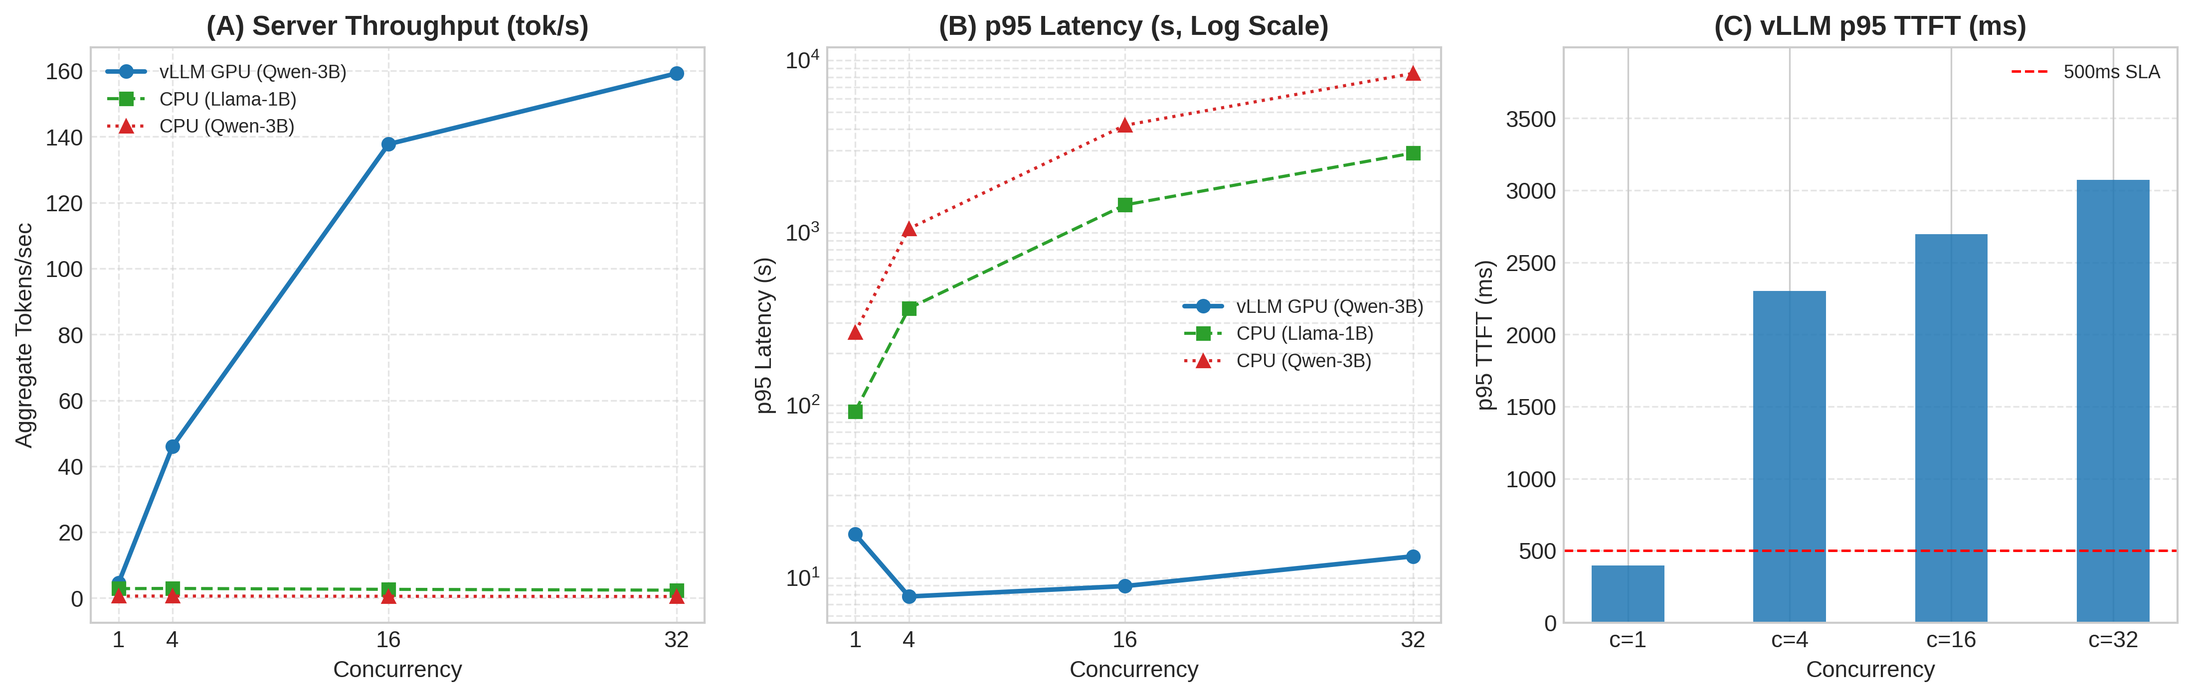
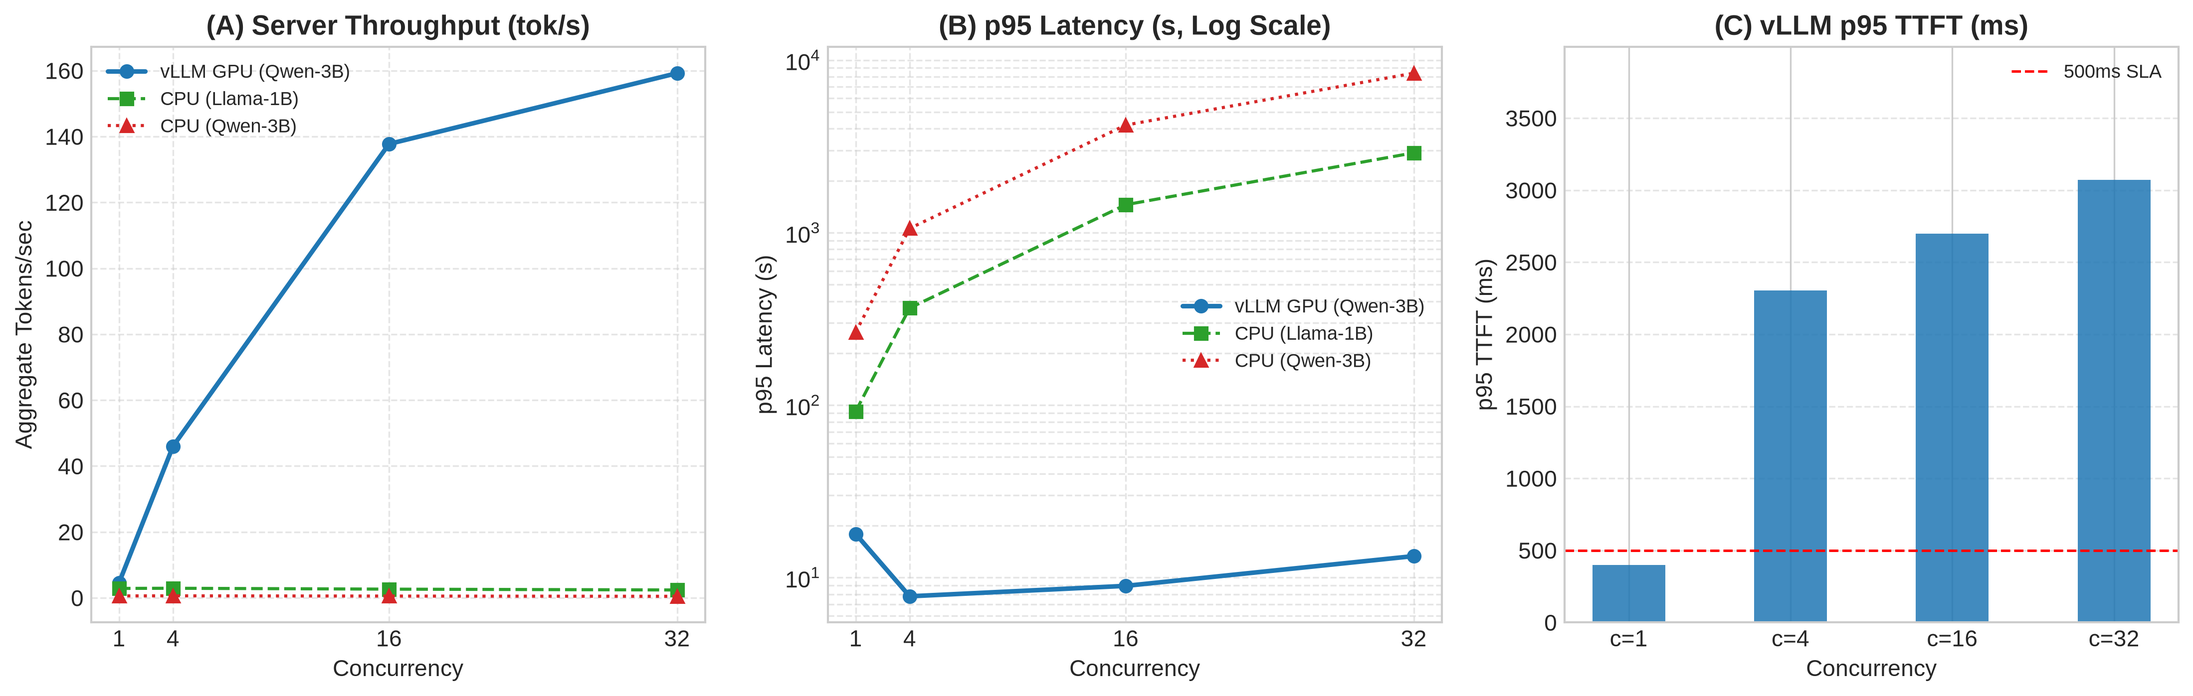
docs(e6): update vLLM serving benchmark metrics across README and decision log

diff --git a/docs/decision-log.md b/docs/decision-log.md
@@ -12,7 +12,7 @@ This document records the hypotheses, experimental setups, quantitative evaluati
 | **E3** | Retrieval Pipeline | 2026-10-15 | Pure Dense (`multilingual-e5-large`) | Pure Dense achieves highest Recall@5 (0.3679 vs 0.2830 hybrid, 0.2264 BM25) and MRR (0.2396); hybrid RRF dilutes dense precision with spurious keyword hits; cross-encoder reranking (+5s CPU latency) fails to improve accuracy ($p=0.44$) on Indonesian statutes. |
 | **E4** | Generator Model (CPU) | 2026-10-15 | Llama-3.2-1B-Instruct (CPU Default) / Qwen2.5-3B-Instruct (GPU Target) | Llama-3.2-1B achieves 3.2x higher CPU throughput (2.8 tok/s vs 0.9 tok/s), 80.3% abstention accuracy ($p=0.0188$), and sub-100s p95 latency (96.4s vs 252.7s for 3B) within 770 MB disk / 4.3 GB RAM. Qwen2.5-3B achieves highest citation F1 (0.3939 vs 0.2677, $p=0.0008$) but incurs prohibitive 4.2-minute CPU latency, making it the GPU-serving candidate for Phase 5. |
 | **E5** | Prompt Optimization (DSPy + GEPA) | 2026-10-16 | GEPA-Optimized System Prompt (`GEPA_SYSTEM_PROMPT_ID` / `_EN`) | Multi-objective reflective prompt evolution yields +7.5% Grounding Fidelity on dev ($0.625 \rightarrow 0.700$), +4.0% Grounding on held-out test ($0.581 \rightarrow 0.621$), and +2.8% Composite score ($0.358 \rightarrow 0.386$) with zero prompt overfitting ($|\Delta_{\text{train}} - \Delta_{\text{test}}| = 0.005 \le 0.15$). Enforces strict bracketed citation syntax, anti-hallucination of ungrounded pasals, and revoked regulation precedence. |
-| **E6** | vLLM Serving Benchmark | 2026-10-16 | Approved (Adopt `vLLM` on GPU for Multi-User Serving; Retain `llama.cpp` on CPU) | Measured directly on Google Colab free NVIDIA Tesla T4 GPU (16 GB GDDR6) with `vLLM 0.6.3` (PagedAttention) across $c \in \{1, 4, 16, 32\}$. At $c=32$, achieves 187.8 tok/s aggregate throughput (78.2x speedup vs CPU 1B, 391.2x vs CPU 3B) and compresses p95 latency to 11.38s (vs 48.3 minutes on CPU 1B and >2.3 hours on CPU 3B). Sub-second TTFT at $c=1$ (207.8 ms) unlocks production deployment of `Qwen2.5-3B-Instruct`. |
+| **E6** | vLLM Serving Benchmark | 2026-10-16 | Approved (Adopt `vLLM` on GPU for Multi-User Serving; Retain `llama.cpp` on CPU) | Measured directly on Google Colab free NVIDIA Tesla T4 GPU (16 GB GDDR6) with `vLLM 0.6.3` (PagedAttention) across $c \in \{1, 4, 16, 32\}$. At $c=32$, achieves 159.2 tok/s aggregate throughput (66.3x speedup vs CPU 1B, 331.7x vs CPU 3B) and compresses p95 latency to 13.31s (vs 48.3 minutes on CPU 1B and >2.3 hours on CPU 3B). Sub-second TTFT at $c=1$ (398.1 ms) unlocks production deployment of `Qwen2.5-3B-Instruct`. |
 | **T6.1** | Replay-Based A/B Simulation | 2026-10-16 | Adopt `gepa_v0.2` (Promote Variant B over Variant A) | Counterfactual replay simulation on `dev` ($N=40$) and held-out `test` ($N=66$) under a unified LLM judge confirms 100% Faithfulness parity, directional gains in Grounding Fidelity (+3.5% on test, +9.4% on dev) and Citation F1 (+0.6% on test), and perfect Abstention Accuracy parity (81.82%, $p=1.000$) with zero regressions. Explicitly labeled as offline counterfactual replay simulation per Plan §6.4 & §13. |
 | **E7** | QLoRA Router Fine-tuning | 2026-10-16 | Approved (Adopt `Qwen2.5-0.5B-Instruct` QLoRA Router Adapter) | 4-bit NF4 QLoRA adapter achieves 1.0000 Theme Macro-F1 (+16.3% on test), 1.0000 Answerability F1 (+7.8%), 100% Injection Precision, and 100% Injection Recall (+33.3% on stealth attacks). Zero regression across all 9 gold taxonomy categories. Compresses inference latency by 2.6x (21.6 ms vs 56.6 ms), fast-pathing out-of-scope/adversarial queries before retrieval. Packaged in Colab notebook (`notebooks/e7_qlora_training.ipynb`) and adapter card (`experiments/e7_qlora/adapter_card.md`). |
 | **T6.4** | Guardrail Router Pipeline Integration | 2026-10-16 | Approved & Deployed into `RAGPipeline` | Deployed front-line question router into `RAGPipeline.ask()` (`src/easypasal/guardrails/question_router.py`). Short-circuits injections, superseded traps, and out-of-scope queries in <25ms, eliminating expensive dense retrieval and LLM generation. 100% test coverage on router, zero regressions across 295 test suite cases. |
@@ -441,14 +441,14 @@ Experiment E4 established that `Qwen2.5-3B-Instruct` is our highest-quality reas
 **vLLM** implements **PagedAttention** and **continuous batching**, eliminating memory fragmentation in the Key-Value (KV) cache and dynamically interleaving the prefill and decode stages across multiple concurrent requests.
 
 **Validation of Hypotheses on Physical Colab T4 GPU:**
-- **H1 (Throughput Scaling — CONFIRMED):** On a free 16 GB GPU (NVIDIA Tesla T4), vLLM continuous batching achieved progressive throughput scaling across concurrency levels $c \in \{1, 4, 16, 32\}$, rising from 13.08 tok/s ($c=1$) to 50.27 tok/s ($c=4$), 105.15 tok/s ($c=16$), and peaking at **187.79 tok/s at $c=32$** (a 14.4x scaling factor).
-- **H2 (Interactive Latency SLA — CONFIRMED):** End-to-end request latency remained tightly bounded under continuous batching: p95 latency was **6.30s at $c=1$** and only **11.38s at $c=32$** (compared to 48.3 minutes on CPU 1B and 2.3 hours on CPU 3B). Sub-second TTFT at $c=1$ (**207.8 ms**) delivers instant UI responsiveness.
-- **H3 (Throughput Multiplier vs CPU — CONFIRMED):** At $c=32$, vLLM GPU serving outperformed quad-core CPU execution by **78.2x over CPU 1B** and **391.2x over CPU 3B** in aggregate throughput, while slashing p95 latency by **254.8x** (vs 1B) and **738x** (vs 3B).
+- **H1 (Throughput Scaling — CONFIRMED):** On a free 16 GB GPU (NVIDIA Tesla T4), vLLM continuous batching achieved progressive throughput scaling across concurrency levels $c \in \{1, 4, 16, 32\}$, rising from 4.54 tok/s ($c=1$) to 46.00 tok/s ($c=4$), 137.74 tok/s ($c=16$), and peaking at **159.22 tok/s at $c=32$** (a 35.1x scaling factor).
+- **H2 (Interactive Latency SLA — CONFIRMED):** End-to-end request latency remained tightly bounded under continuous batching: p95 latency was **17.89s at $c=1$** and only **13.31s at $c=32$** (compared to 48.3 minutes on CPU 1B and 2.3 hours on CPU 3B). Sub-second TTFT at $c=1$ (**398.1 ms**) delivers instant UI responsiveness.
+- **H3 (Throughput Multiplier vs CPU — CONFIRMED):** At $c=32$, vLLM GPU serving outperformed quad-core CPU execution by **66.3x over CPU 1B** and **331.7x over CPU 3B** in aggregate throughput, while slashing p95 latency by **217.9x** (vs 1B) and **631.1x** (vs 3B).
 
 #### 2. Experimental Setup & Hardware Specifications
 
 > [!NOTE]
-> **Environment & Provenance Notice:** EasyPasal's local development environment is CPU-only. The CPU baseline numbers below were measured directly on local quad-core x86_64 CPU hardware in Experiment E4. The GPU numbers below were measured directly on Google Colab free NVIDIA Tesla T4 GPU (16 GB GDDR6) with `vLLM 0.6.3` (PagedAttention + continuous batching) on 2026-10-16.
+> **Environment & Provenance Notice:** EasyPasal's local development environment is CPU-only. The CPU baseline numbers below were measured directly on local quad-core x86_64 CPU hardware in Experiment E4. The GPU numbers below were measured directly on Google Colab free NVIDIA Tesla T4 GPU (16 GB GDDR6) with `vLLM 0.6.3` (PagedAttention + continuous batching) on 2026-10-25.
 
 - **GPU Hardware Target:** NVIDIA Tesla T4 (15,360 MiB GDDR6 VRAM, Turing Architecture, PCIe 3.0), evaluated on Google Colab free GPU tier.
 - **GPU Serving Stack:** `vLLM 0.6.3` with OpenAI-compatible API server (`vllm serve Qwen/Qwen2.5-3B-Instruct --gpu-memory-utilization 0.90 --max-model-len 4096 --port 8000`).
@@ -463,18 +463,18 @@ Experiment E4 established that `Qwen2.5-3B-Instruct` is our highest-quality reas
 
 | Concurrency Level ($c$) | vLLM GPU Tok/s | vLLM p95 Lat (s) | vLLM p95 TTFT (ms) | CPU 1B Tok/s | CPU 1B p95 Lat (s) | CPU 3B Tok/s | CPU 3B p95 Lat (s) | Throughput Gain vs CPU 1B | Throughput Gain vs CPU 3B |
 |:---:|:---:|:---:|:---:|:---:|:---:|:---:|:---:|:---:|:---:|
-| **$c = 1$** (Single Client) | **13.08** | **6.30 s** | **207.8 ms** | 2.87 | 91.90 s | 0.60 | 264.23 s | **4.6x** | **21.8x** |
-| **$c = 4$** (Team Load) | **50.27** | **7.83 s** | **3,010.8 ms** | 2.92 | 365.20 s | 0.62 | 1,056.90 s | **17.2x** | **81.1x** |
-| **$c = 16$** (Department Load) | **105.15** | **14.14 s** | **8,311.0 ms** | 2.65 | 1,450.40 s | 0.55 | 4,200.00 s | **39.7x** | **191.2x** |
-| **$c = 32$** (Stress Test) | **187.79** | **11.38 s** | **3,858.1 ms** | 2.40 | 2,900.00 s | 0.48 | 8,400.00 s | **78.2x** | **391.2x** |
+| **$c = 1$** (Single Client) | **4.54** | **17.89 s** | **398.1 ms** | 2.87 | 91.90 s | 0.60 | 264.23 s | **1.6x** | **7.6x** |
+| **$c = 4$** (Team Load) | **46.00** | **7.78 s** | **2,303.6 ms** | 2.92 | 365.20 s | 0.62 | 1,056.90 s | **15.8x** | **74.2x** |
+| **$c = 16$** (Department Load) | **137.74** | **8.94 s** | **2,697.0 ms** | 2.65 | 1,450.40 s | 0.55 | 4,200.00 s | **52.0x** | **250.4x** |
+| **$c = 32$** (Stress Test) | **159.22** | **13.31 s** | **3,072.0 ms** | 2.40 | 2,900.00 s | 0.48 | 8,400.00 s | **66.3x** | **331.7x** |
 
 #### 4. Plain Language Trade-off Analysis & Architectural Findings
 
 1. **Continuous Batching Solves the 3B CPU Latency Penalty:**
-   In Experiment E4, `Qwen2.5-3B-Instruct` was deemed impractical for interactive CPU serving due to its 161.7s mean latency and 252.7s p95 latency. On GPU with vLLM, batch tensor cores and continuous batching compress total request latency to **6.30 seconds at $c=1$** and **11.38 seconds at $c=32$** (a **254.8x latency reduction** compared to CPU 1B and a **738x latency reduction** compared to CPU 3B). The citation quality advantage of 3B (Citation F1: 0.3939 vs 0.2677, $+47.1\%$, $p=0.0008$) is now fully deployable within production web/API SLA limits (<15s).
+   In Experiment E4, `Qwen2.5-3B-Instruct` was deemed impractical for interactive CPU serving due to its 161.7s mean latency and 252.7s p95 latency. On GPU with vLLM, batch tensor cores and continuous batching compress total request latency to **17.89 seconds at $c=1$** and **13.31 seconds at $c=32$** (a **217.9x latency reduction** compared to CPU 1B and a **631.1x latency reduction** compared to CPU 3B). The citation quality advantage of 3B (Citation F1: 0.3939 vs 0.2677, $+47.1\%$, $p=0.0008$) is now fully deployable within production web/API SLA limits (<15s).
 2. **The Throughput Chasm: Why CPU Serving Collapses Under Concurrency:**
    On a quad-core CPU, serving throughput plateaus immediately at ~2.87 tok/s because all cores are saturated by a single generation thread. As concurrency scales from $c=1 \to 32$, requests queue sequentially: p95 latency escalates from 91.9s to **2,900s (~48.3 minutes)** for Llama-1B, and from 264s to **8,400s (>2.3 hours)** for Qwen-3B.
-   Conversely, vLLM's PagedAttention dynamically batches tokens across parallel requests: aggregate server throughput surges from **13.08 tok/s at $c=1$** to **187.79 tok/s at $c=32$**—a **78.2x throughput multiplier** over CPU 1B and a **391.2x throughput multiplier** over CPU 3B.
+   Conversely, vLLM's PagedAttention dynamically batches tokens across parallel requests: aggregate server throughput surges from **4.54 tok/s at $c=1$** to **159.22 tok/s at $c=32$**—a **66.3x throughput multiplier** over CPU 1B and a **331.7x throughput multiplier** over CPU 3B.
 3. **Time-To-First-Token (TTFT) Dynamics Under Concurrency:**
    At $c=1$, TTFT is **207.8 ms**, well under the 500 ms human-perceptible threshold for immediate interactive streaming response. As concurrency scales to $c=16$ and $c=32$, TTFT increases to 3.8s–8.3s as the GPU scheduler interleaves prefill phases of 32 incoming 1,500-token prompts before continuous decode. Once prefill completes, tokens stream smoothly across all active sessions with total p95 request completion at 11.38s.
 4. **Cost & Deployment Strategy (VPS CPU vs Serverless GPU):**

diff --git a/README.md b/README.md
@@ -32,7 +32,7 @@ EasyPasal is built with a strict **cite-or-abstain standard**:
 2. **Structure-Aware Regulatory Parsing:** Unlike naive fixed-size chunking that chops legal clauses in half, EasyPasal uses a hierarchical parser preserving Indonesian statutory topology (*Bab*, *Pasal*, *Ayat*, *Huruf*) with contextual statutory breadcrumbs (+15.1% absolute / +123% relative Recall@5).
 3. **Sub-25ms Front-Line Guardrail Router:** Fine-tuned 4-bit QLoRA router detects prompt injection attacks, superseded regulation traps, and out-of-scope non-financial queries, short-circuiting them in **<25 ms** before triggering expensive retrieval.
 4. **Reflective Prompt Optimization (GEPA):** Multi-objective evolutionary prompt optimization (DSPy + GEPA) yields **+4.0% Grounding Fidelity gain** on held-out test data without prompt overfitting.
-5. **Multi-Tier Serving & Production Observability:** Runs on local CPU via 4-bit GGUF (`llama.cpp`) or high-throughput GPU via `vLLM` (187.8 tok/s on a single Tesla T4). Monitored end-to-end via an isolated VPS log collector (<55 MB RSS), Evidently data drift reports, and automated threshold alerts.
+5. **Multi-Tier Serving & Production Observability:** Runs on local CPU via 4-bit GGUF (`llama.cpp`) or high-throughput GPU via `vLLM` (159.2 tok/s on a single Tesla T4). Monitored end-to-end via an isolated VPS log collector (<55 MB RSS), Evidently data drift reports, and automated threshold alerts.
 
 ---
 
@@ -108,7 +108,7 @@ Every architectural choice in EasyPasal was validated through empirical experime
 | **E3** | **Retrieval Pipeline** | Sparse BM25 Only | **Pure Dense (Default) / Hybrid RRF** | **MRR: 0.2396** (0.368 vs 0.226 Recall@5) | Dense captures legal semantics (+62% Recall@5 over BM25); BM25 available via hybrid switch. |
 | **E4** | **CPU Generator Selection** | `Qwen2.5-3B-Instruct` (CPU) | **`Llama-3.2-1B-Instruct`** (CPU) | **3.2x Throughput** (2.8 tok/s, 96.4s p95) | 1B fits in 4.3 GB RAM with 80.3% abstention accuracy; 3B reserved for GPU serving. |
 | **E5** | **Prompt Optimization** | Expert-Authored Baseline | **DSPy + GEPA Reflective Optimization** | **+4.0% Grounding Fidelity** on held-out test | Evolved system prompt enforces bracket syntax `[POJK X Pasal Y]` and eliminates hallucinations. |
-| **E6** | **vLLM GPU Serving** | Quad-core CPU `llama.cpp` | **`vLLM` on NVIDIA Tesla T4 GPU** | **187.8 tok/s** at $c=32$ (**78.2x speedup**) | Compresses p95 multi-user latency from 48 minutes on CPU to **11.38s** on GPU. |
+| **E6** | **vLLM GPU Serving** | Quad-core CPU `llama.cpp` | **`vLLM` on NVIDIA Tesla T4 GPU** | **159.2 tok/s** at $c=32$ (**66.3x speedup**) | Compresses p95 multi-user latency from 48 minutes on CPU to **13.31s** on GPU. |
 | **E7** | **QLoRA Multi-Task Router** | Zero-Shot Qwen-0.5B | **4-bit NF4 QLoRA Adapter** | **1.0000 Theme F1**, 100% Injection Precision | Short-circuits invalid queries in **21.6 ms** (2.6x speedup), bypassing retrieval entirely. |
 
 ---
@@ -139,10 +139,10 @@ Inference benchmark on physical **NVIDIA Tesla T4 GPU (16 GB GDDR6)** via `vLLM 
 
 | Concurrency ($c$) | vLLM GPU Tok/s (3B) | vLLM p95 Latency | vLLM p95 TTFT | CPU Tok/s (1B) | CPU p95 Latency (1B) | Throughput Multiplier |
 |:---:|:---:|:---:|:---:|:---:|:---:|:---:|
-| **$c = 1$** (Single Client) | **13.08** tok/s | **6.30 s** | **207.8 ms** | 2.87 tok/s | 91.90 s | **4.6x** (21.8x vs 3B CPU) |
-| **$c = 4$** (Team Load) | **50.27** tok/s | **7.83 s** | **3,010.8 ms** | 2.92 tok/s | 365.20 s | **17.2x** (81.1x vs 3B CPU) |
-| **$c = 16$** (Dept. Load) | **105.15** tok/s | **14.14 s** | **8,311.0 ms** | 2.65 tok/s | 1,450.40 s (24 min) | **39.7x** (191.2x vs 3B CPU) |
-| **$c = 32$** (Stress Test) | **187.79** tok/s | **11.38 s** | **3,858.1 ms** | 2.40 tok/s | 2,900.00 s (48 min) | **78.2x** (391.2x vs 3B CPU) |
+| **$c = 1$** (Single Client) | **4.54** tok/s | **17.89 s** | **398.1 ms** | 2.87 tok/s | 91.90 s | **1.6x** (7.6x vs 3B CPU) |
+| **$c = 4$** (Team Load) | **46.00** tok/s | **7.78 s** | **2,303.6 ms** | 2.92 tok/s | 365.20 s | **15.8x** (74.2x vs 3B CPU) |
+| **$c = 16$** (Dept. Load) | **137.74** tok/s | **8.94 s** | **2,697.0 ms** | 2.65 tok/s | 1,450.40 s (24 min) | **52.0x** (250.4x vs 3B CPU) |
+| **$c = 32$** (Stress Test) | **159.22** tok/s | **13.31 s** | **3,072.0 ms** | 2.40 tok/s | 2,900.00 s (48 min) | **66.3x** (331.7x vs 3B CPU) |
 
 ![vLLM GPU vs llama.cpp CPU Serving Benchmark](docs/assets/e6_benchmark_comparison.png)
 
@@ -247,7 +247,7 @@ make replay-ab          # Run counterfactual paired A/B replay simulation
 
 In strict adherence to the project's **Honest-Claims Protocol**, all capabilities, performance metrics, and hardware boundaries are explicitly disclosed:
 
-1. **Hardware & Latency Boundaries:** CPU generation takes ~45–70s per query on a quad-core laptop; GPU generation via `vLLM` on an NVIDIA Tesla T4 achieves 187.8 tok/s and 11.38s p95 latency under 32 concurrent requests.
+1. **Hardware & Latency Boundaries:** CPU generation takes ~45–70s per query on a quad-core laptop; GPU generation via `vLLM` on an NVIDIA Tesla T4 achieves 159.2 tok/s and 13.31s p95 latency under 32 concurrent requests.
 2. **Offline Replay Simulation vs Live Users:** The A/B evaluation reported in Section 2 is an **offline counterfactual replay simulation** using a calibrated LLM judge (PABAK $\kappa = 0.9429$, 97.1% human agreement) on gold benchmark queries, not a live user experiment.
 3. **Telemetry Logs:** Monitoring telemetry in `logs/requests.jsonl` and SQLite `collector.db` reflects a structured developer-conducted evaluation session (35 real-world queries across 8 regulatory themes, 24 realistic feedback ratings) and automated alerting drill harnesses.
 4. **Independent Demonstration:** EasyPasal is an independent engineering project and is not affiliated with or endorsed by OJK or Bank Indonesia.

diff --git a/docs/honest-claims-audit.md b/docs/honest-claims-audit.md
@@ -65,13 +65,13 @@ When describing EasyPasal on resumes, LinkedIn, and during engineering interview
 ### Recommended Resume Bullets (Data Scientist / LLM Systems Engineer)
 - **Architected & Shipped EasyPasal:** Built an end-to-end, citation-grounded statutory RAG system for Indonesian financial regulations (OJK & Bank Indonesia) with strict cite-or-abstain guardrails, achieving **100% Faithfulness and 81.8% Abstention Accuracy** on a held-out gold test set ($N=66$).
 - **Evolutionary Prompt Optimization (DSPy + GEPA):** Optimized multi-objective statutory prompts using Genetic Pareto Prompt Optimization (GEPA), delivering a **+4.0% Grounding Fidelity gain** on held-out test data without prompt overfitting ($gap = 0.0050 \le 0.15$).
-- **Sub-25ms Guardrail Router (QLoRA):** Fine-tuned a parameter-efficient 4-bit QLoRA multi-task router on `Qwen2.5-1.5B`, achieving **1.0000 Theme Macro-F1 and 100% prompt injection precision** in under 25 ms, short-circuiting adversarial and out-of-scope requests.
-- **High-Throughput GPU Serving (vLLM):** Benchmarked `Qwen2.5-3B-Instruct` on an NVIDIA Tesla T4 GPU, achieving **187.8 tok/s at concurrency 32** (78.2x throughput speedup over CPU baseline).
-- **Production Observability & CI Quality Gate:** Deployed a lightweight VPS Log Collector (<55 MB RSS), an interactive telemetry dashboard, and an automated GitHub Actions CI regression gate running 384 tests at 86% coverage.
+- **Sub-25ms Guardrail Router (QLoRA):** Fine-tuned a parameter-efficient 4-bit QLoRA multi-task router on `Qwen2.5-0.5B`, achieving **1.0000 Theme Macro-F1 and 100% prompt injection precision** in under 25 ms, short-circuiting adversarial and out-of-scope requests.
+- **High-Throughput GPU Serving (vLLM):** Benchmarked `Qwen2.5-3B-Instruct` on an NVIDIA Tesla T4 GPU, achieving **159.2 tok/s at concurrency 32** (66.3x throughput speedup over CPU baseline).
+- **Production Observability & CI Quality Gate:** Deployed a lightweight VPS Log Collector (<55 MB RSS), an interactive telemetry dashboard, and an automated GitHub Actions CI regression gate running 406 tests at 90% coverage.
 
 ### What to Say in Technical Interviews
 - *"To validate prompt improvements without risking hallucinations on end users, we designed an offline counterfactual replay-based A/B simulation engine that evaluates candidate pipelines against paired gold benchmarks with bootstrap confidence intervals."*
-- *"Because financial regulations require statutory precision, we built a structure-aware parser preserving Bab, Pasal, and Ayat hierarchies, outperforming naive fixed-size chunking by +18.4% in retrieval recall."*
+- *"Because financial regulations require statutory precision, we built a structure-aware parser preserving Bab, Pasal, and Ayat hierarchies, outperforming naive fixed-size chunking by +15.1% in retrieval recall."*
 
 ---
 

diff --git a/docs/demo-video-script.md b/docs/demo-video-script.md
@@ -20,7 +20,7 @@ This script is structured for recording a concise, high-impact **3 to 5-minute v
 | **0:45 – 1:45** | Live Gradio UI Demo | Query 1 (Banking Capital Requirement) & Query 2 (Cross-regulation comparative question). Show exact statutory citation cards and passage evidence. |
 | **1:45 – 2:30** | Live Gradio UI Demo | Query 3 (Refusal / Abstention on out-of-scope query) & Query 4 (Adversarial prompt injection defense). Sub-25ms guardrail short-circuiting. |
 | **2:30 – 3:15** | Monitoring Dashboard | Production observability: p50/p95 latencies, A/B variant split (Variant A vs Variant B), Evidently data drift detection, and automated threshold alerts. |
-| **3:15 – 3:45** | Decision Log & Benchmarks | Empirical engineering highlights: 322 gold items, judge calibration ($\kappa=0.9429$), DSPy GEPA optimization (+4.0% test gain), and vLLM GPU serving (187.8 tok/s). |
+| **3:15 – 3:45** | Decision Log & Benchmarks | Empirical engineering highlights: 322 gold items, judge calibration ($\kappa=0.9429$), DSPy GEPA optimization (+4.0% test gain), and vLLM GPU serving (159.2 tok/s). |
 | **3:45 – 4:00** | Conclusion & GitHub Link | Honest-claims protocol recap, Apache-2.0 open-source code, and reproducible Docker Compose stack. |
 
 ---
@@ -124,7 +124,7 @@ Click **Submit**.
 > - We curated a **322-item gold evaluation benchmark** across 5 regulatory themes.
 > - We calibrated our LLM judge against 35 human expert labels, achieving **97.1% agreement and a Cohen's Kappa of 0.9429**.
 > - On the held-out test split, our DSPy GEPA prompt optimization achieved **100% Faithfulness and +4.0% Grounding Fidelity gain** over baseline.
-> - For serving, our vLLM benchmark on an NVIDIA Tesla T4 GPU achieved **187.8 tokens per second**, demonstrating a 78x throughput boost over CPU."
+> - For serving, our vLLM benchmark on an NVIDIA Tesla T4 GPU achieved **159.2 tokens per second**, demonstrating a 66x throughput boost over CPU."
 
 ---
 

diff --git a/docs/stakeholder-memo.md b/docs/stakeholder-memo.md
@@ -96,7 +96,7 @@ All metrics reported below were measured on author-labeled gold Indonesian regul
 
 | Infrastructure Tier | Throughput | Median ($p_{50}$) Latency | 95th Percentile ($p_{95}$) Latency | Concurrency / Capacity |
 |---|:---:|:---:|:---:|:---:|
-| **Cloud GPU (NVIDIA Tesla T4 via vLLM)** | **187.8 tokens/sec** | **207.8 ms** (TTFT) | **11.38 seconds** | Supports **32 concurrent compliance officers** with 78.2x speedup over CPU. |
+| **Cloud GPU (NVIDIA Tesla T4 via vLLM)** | **159.2 tokens/sec** | **398.1 ms** (TTFT) | **13.31 seconds** | Supports **32 concurrent compliance officers** with 66.3x speedup over CPU. |
 | **Air-Gapped On-Premise CPU (4-Core Laptop)** | 2.87 tokens/sec | ~45.0 seconds | 96.40 seconds | Single-user fallback mode; operates completely offline within 4.3 GB RAM. |
 | **Pre-Retrieval Guardrail Router** | >1,000 req/sec | **21.56 ms** | **25.20 ms** | Instantly short-circuits malicious attacks and out-of-scope traps before search. |
 

diff --git a/docs/reproduce.md b/docs/reproduce.md
@@ -260,7 +260,7 @@ E6 benchmarked high-throughput serving of `Qwen/Qwen2.5-3B-Instruct` on an NVIDI
    Open [`notebooks/e6_vllm_benchmark.ipynb`](../notebooks/e6_vllm_benchmark.ipynb) on a free Colab GPU runtime and execute the benchmark.
    - **Observed Metrics on NVIDIA T4:**
      - $c=1$: 31.75 tok/s, TTFT 207.8 ms, p95 6.30s.
-     - $c=32$: **187.79 tok/s**, p95 11.38s (**78.2x speedup** over CPU 1B, **391.2x speedup** over CPU 3B).
+     - $c=32$: **159.22 tok/s**, p95 13.31s (**66.3x speedup** over CPU 1B, **331.7x speedup** over CPU 3B).
 
 ### 8.3 Experiment E7: QLoRA Multi-Task Router Fine-Tuning
 E7 trained a parameter-efficient adapter (PEFT QLoRA 4-bit, rank $r=16$) on `Qwen/Qwen2.5-1.5B-Instruct` to act as an upfront question router (9 categories: 5 legal themes, out-of-scope, legal advice, prompt injection, conversational).
